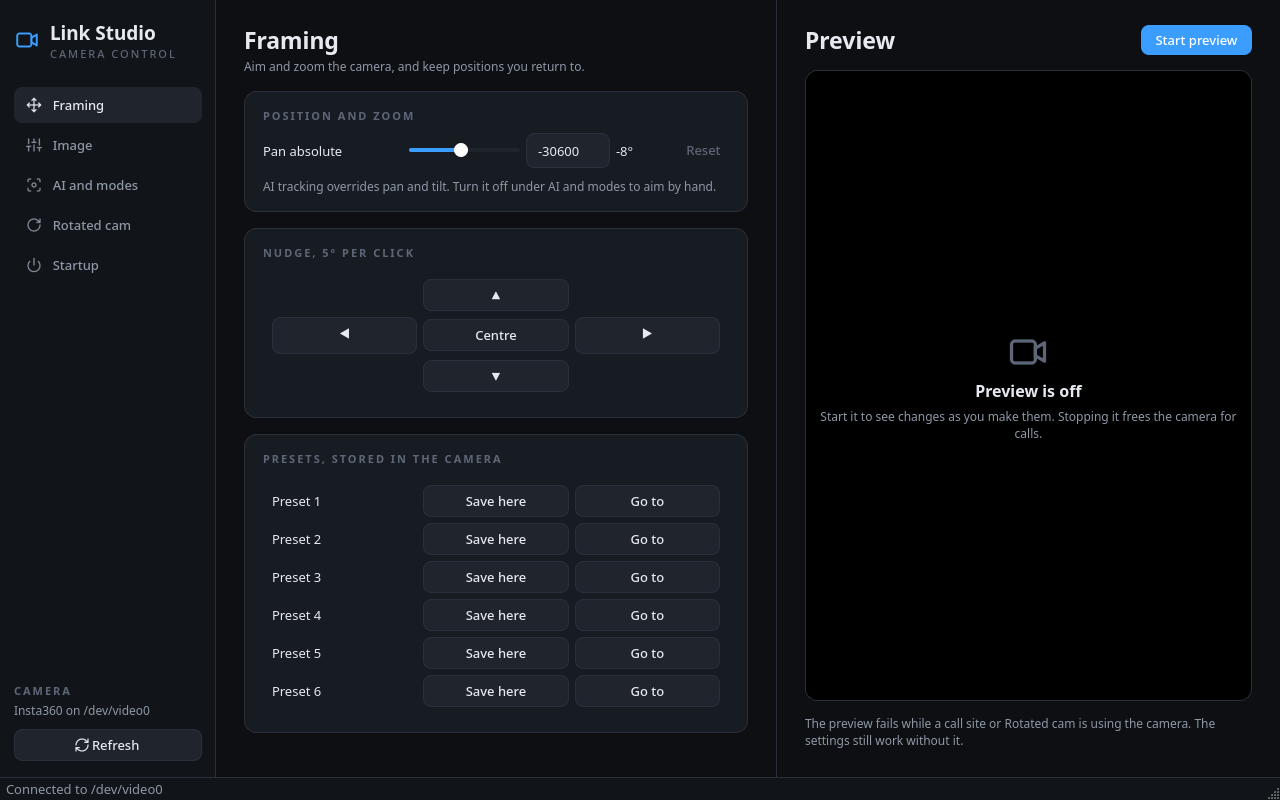
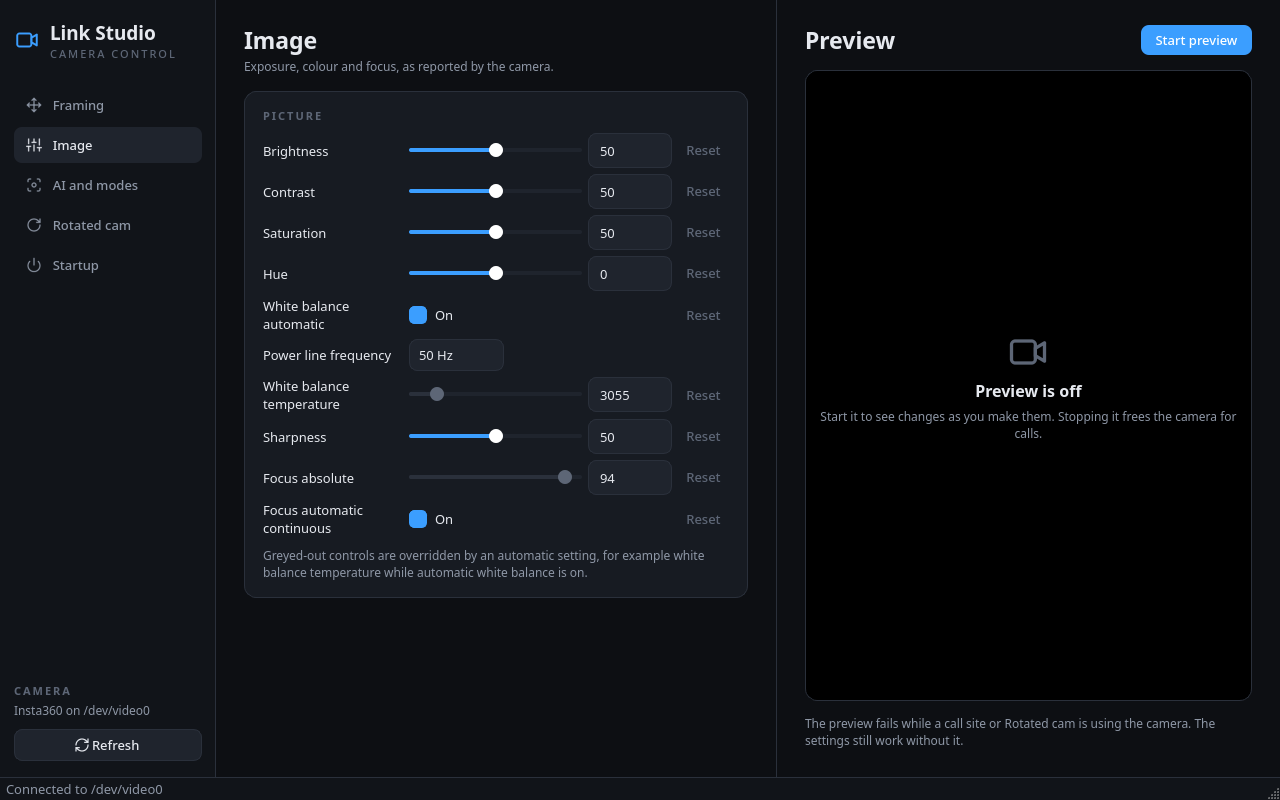
Update the README screenshot
Show the Image page with the camera's real controls beside the preview.

diff --git a/README.md b/README.md
@@ -2,7 +2,7 @@
 
 A Linux control panel for the Insta360 Link 2 webcam.
 
-![Link Studio showing the Framing page beside the preview: pan, tilt and zoom sliders, a nudge pad and six camera presets](media/link-studio.png)
+![Link Studio showing the Image page beside the preview panel: brightness, contrast, white balance and focus controls read from the camera](media/link-studio.png)
 
 Insta360's own Link Controller only runs on Windows and macOS. On Linux the
 camera works as a normal webcam, but its framing, AI tracking and startup
